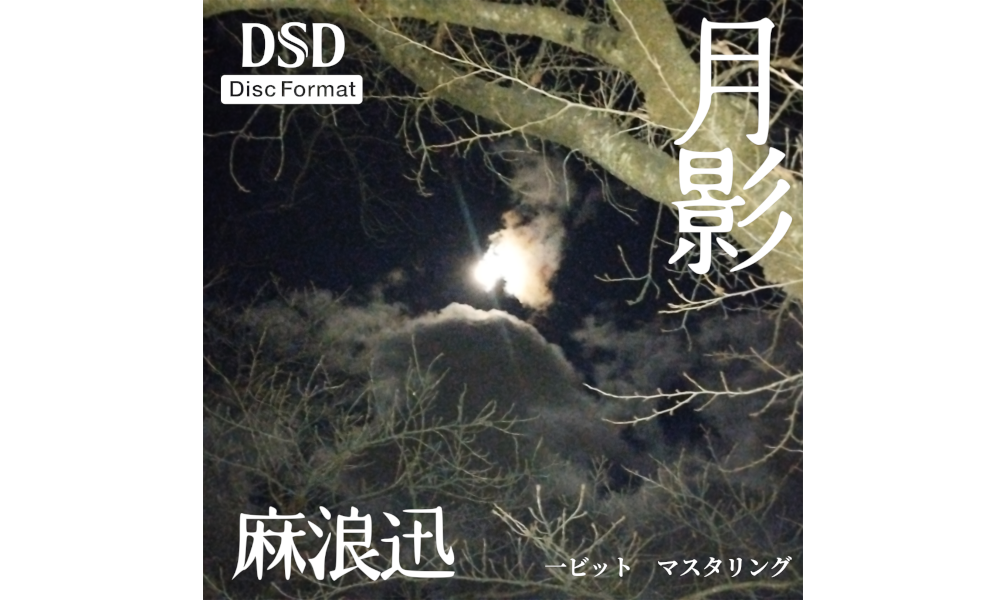
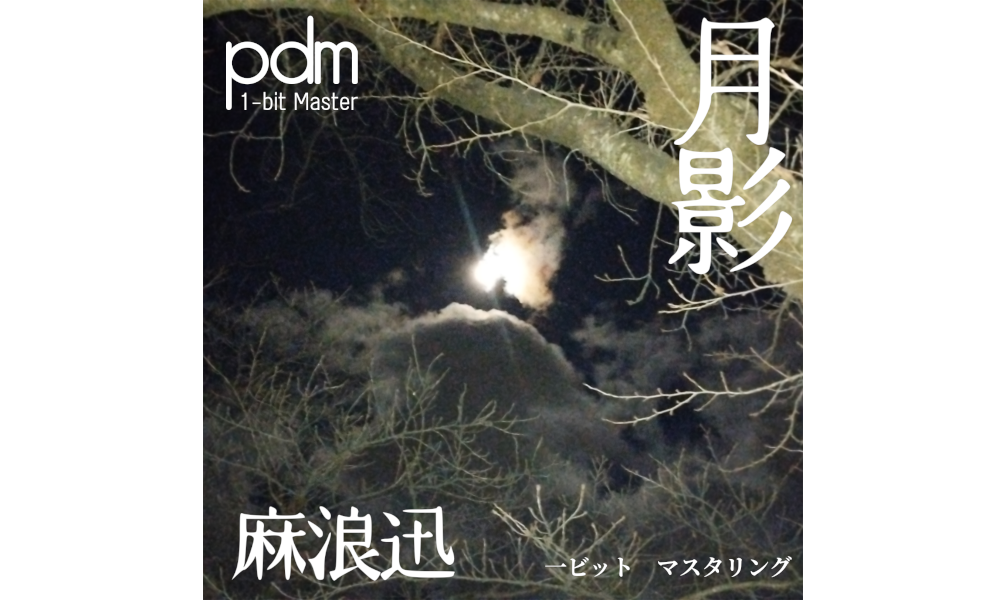
色々更新

Changed region(s): [[0.2155, 0.03, 0.3694, 0.18]]

diff --git a/content/music/nrgh-1.md b/content/music/nrgh-1.md
@@ -20,7 +20,7 @@ tags:
 
 176.4kHz 24bitのPCMマスターを基に、全曲2.8MHz/1bitでリマスターを実施。より「月影」の真髄に迫るディスク。
 
-※DSDディスクは、「ダイレクトストリームデジタル」方式で音声を記録したDVD-ROMです。DSD、Direct Stream Digital、DSD Disc Format、並びにDSDロゴはソニーグループ株式会社の登録商標です。 「DVD±Rに焼いたDSFファイル」に対応するプレイヤーで再生して下さい。
+※DSDディスクは、デルタシグマPDM方式で音声を記録したDVD-ROMです。DSD、Direct Stream Digital、DSD Disc Format、並びにDSDロゴはソニーグループ株式会社の登録商標です。 「DVD±Rに焼いたDSFファイル」に対応するプレイヤーで再生して下さい。
 
 ## 収録曲
 1. 月影 (4:03)

diff --git a/content/music/nrch-3.md b/content/music/nrch-3.md
@@ -4,7 +4,7 @@ date: 2025-07-07
 image: "/img/music/nrch-3.png"
 tags:
 - CD-DA
-- アルバム
+- LP
 draft: true
 ---
 
@@ -20,7 +20,7 @@ draft: true
 
 **ジャズってのはなぁ、こうやるんだよ！**
 
-麻浪迅初のフルアルバムにして、初のCD-DA。
+麻浪迅初のLPにして、初のCD-DA。
 
 ## 収録曲(順番未定)
 - Case 14106
